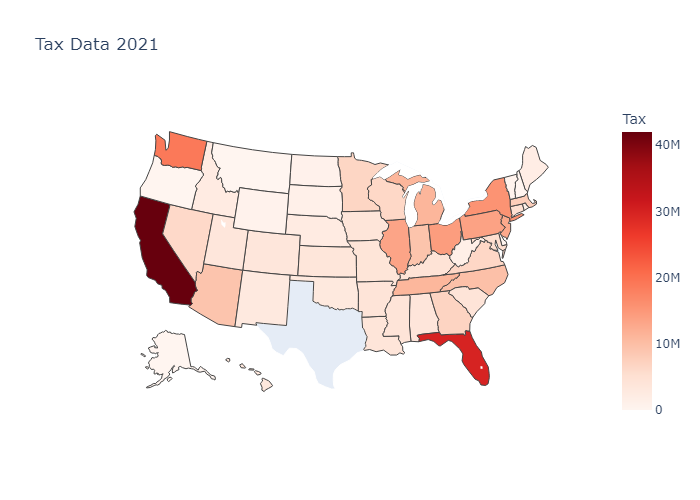
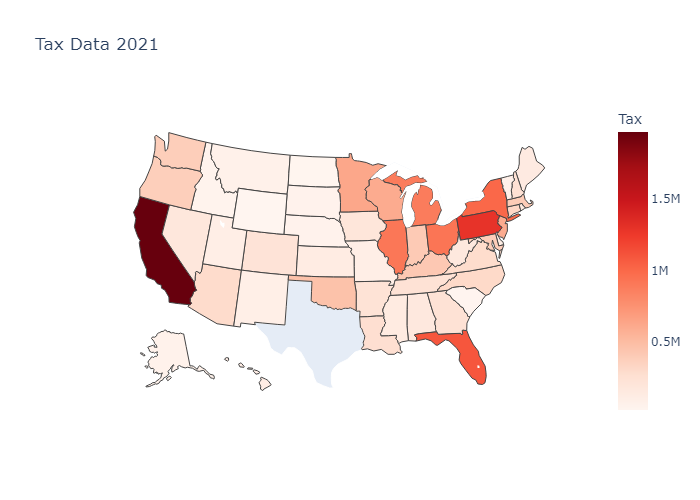
Added buttons to change graph

diff --git a/test.py b/test.py
@@ -3,14 +3,80 @@ import plotly.graph_objects as go
 import pandas as pd
 import tkinter as tk
 from PIL import ImageTk, Image
-def click():
+selectedLeft = "T01"
+selectedRight = "T24"
+def T1Click():
+    global selectedLeft
+    clearLeftButton()
+    btnT1.configure(bg='gray')
+    selectedLeft = "T01"
+    update()
+def T9Click():
+    global selectedLeft
+    clearLeftButton()
+    btnT9.configure(bg='gray')
+    selectedLeft = "T09"
+    update()
+def T10Click():
+    global selectedLeft
+    clearLeftButton()
+    btnT10.configure(bg='gray')
+    selectedLeft = "T10"
+    update()
+def T16Click():
+    global selectedLeft
+    clearLeftButton()
+    btnT16.configure(bg='gray')
+    selectedLeft = "T16"
+    update()
+def T24Click():
+    global selectedRight
+    clearRightButton()
+    btnT24.configure(bg='gray')
+    selectedRight = "T24"
+    update()
+def T25Click():
+    global selectedRight
+    clearRightButton()
+    btnT25.configure(bg='gray')
+    selectedRight = "T25"
+    update()
+def T40Click():
+    global selectedRight
+    clearRightButton()
+    btnT40.configure(bg='gray')
+    selectedRight = "T40"
+    update()
+def T41Click():
+    global selectedRight
+    clearRightButton()
+    btnT41.configure(bg='gray')
+    selectedRight = "T41"
+    update()
+def clearLeftButton():
+    btnT1.configure(bg='#f0f0f0')
+    btnT9.configure(bg='#f0f0f0')
+    btnT10.configure(bg='#f0f0f0')
+    btnT16.configure(bg='#f0f0f0')
+def clearRightButton():
+    btnT24.configure(bg='#f0f0f0')
+    btnT25.configure(bg='#f0f0f0')
+    btnT40.configure(bg='#f0f0f0')
+    btnT41.configure(bg='#f0f0f0')
+def update():
     global img
+    global img2
+    
+    """
+        Left Image
+    """
+    print(selectedLeft)
     df = pd.read_csv('taxData2021.csv')
 
     fig = go.Figure(data=go.Choropleth(
         locations=df['code'], # Spatial coordinates
         #z = df['Property Taxes'].astype(float), # Data to be color-coded
-        z = df['T09'].astype(float), # Data to be color-coded
+        z = df[selectedLeft].astype(float), # Data to be color-coded
         locationmode = 'USA-states', # set of locations match entries in `locations`
         colorscale = 'Reds',
         colorbar_title = "Tax",
@@ -23,14 +89,64 @@ def click():
     fig.write_image("fig.png")
     
     img = ImageTk.PhotoImage(Image.open("fig.png"))
-    label = tk.Label(window, image=img)
-    label.pack()
+    #label = tk.Label(window, image=img)
+    leftMap.configure(image=img)
+    """
+        Right Image
+    """
+    df = pd.read_csv('taxData2021.csv')
+
+    fig = go.Figure(data=go.Choropleth(
+        locations=df['code'], # Spatial coordinates
+        #z = df['Property Taxes'].astype(float), # Data to be color-coded
+        z = df[selectedRight].astype(float), # Data to be color-coded
+        locationmode = 'USA-states', # set of locations match entries in `locations`
+        colorscale = 'Reds',
+        colorbar_title = "Tax",
+    ))
+
+    fig.update_layout(
+        title_text = 'Tax Data 2021',
+        geo_scope='usa', # limite map scope to USA
+    )
+    fig.write_image("fig2.png")
+    
+    img2 = ImageTk.PhotoImage(Image.open("fig2.png"))
+    #label = tk.Label(window, image=img)
+    rightMap.configure(image=img2)
+    
 
 
 window = tk.Tk()
 window.title("Map")
-button = tk.Button(window,width=10,height=2,text="Plot",command=click)
-button.pack()
+window.geometry("1400x500")
+"""
+    Left Map Buttons
+"""
+btnT1 = tk.Button(window,width=10,height=2,text="T01",command=T1Click, bg="gray")
+btnT1.place(x=0, y=0)
+btnT9 = tk.Button(window,width=10,height=2,text="T09",command=T9Click)
+btnT9.place(x=100, y=0)
+btnT10 = tk.Button(window,width=10,height=2,text="T10",command=T10Click)
+btnT10.place(x=200, y=0)
+btnT16 = tk.Button(window,width=10,height=2,text="T16",command=T16Click)
+btnT16.place(x=300, y=0)
+leftMap = tk.Label(window)
+leftMap.place(x=0, y=40)
+"""
+    Right Map Buttons
+"""
+btnT24 = tk.Button(window,width=10,height=2,text="T24",command=T24Click, bg="gray")
+btnT24.place(x=1025, y=0)
+btnT25 = tk.Button(window,width=10,height=2,text="T25",command=T25Click)
+btnT25.place(x=1125, y=0)
+btnT40 = tk.Button(window,width=10,height=2,text="T40",command=T40Click)
+btnT40.place(x=1225, y=0)
+btnT41 = tk.Button(window,width=10,height=2,text="T41",command=T41Click)
+btnT41.place(x=1325, y=0)
+rightMap = tk.Label(window)
+rightMap.place(x=700, y=40)
+update()
 window.mainloop()
 
 
